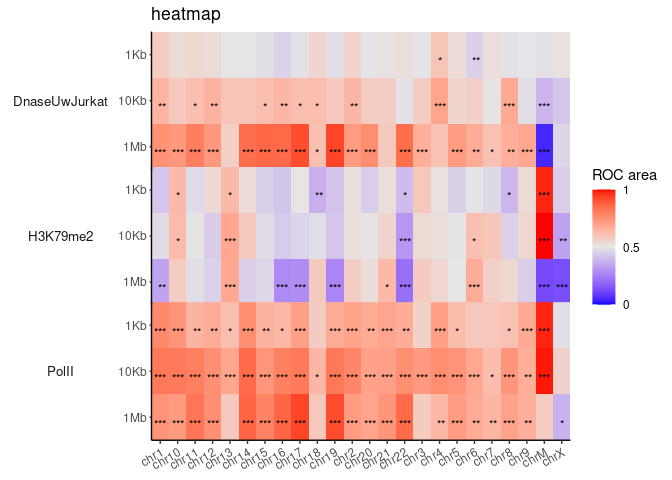
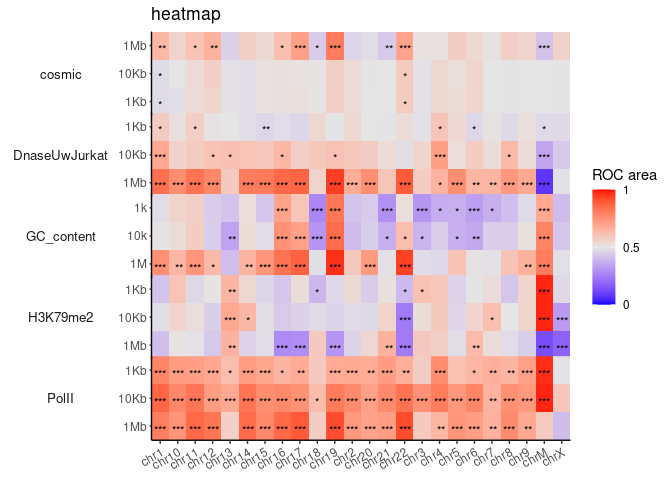
fixed a problem where long sequences crossed the end twice in circular sequences

diff --git a/README.md b/README.md
@@ -29,6 +29,7 @@ This should work out of the box:
 library(GenomicHeatMap)
 intsite_to_heatmap_df(sample_intSites) %>%
   epi_annotate_df2() %>%
+  gen_annotate_df() %>% 
   make_roc() %>%
   make_heatmap() %>% 
   plot_heatmap(star = TRUE)
